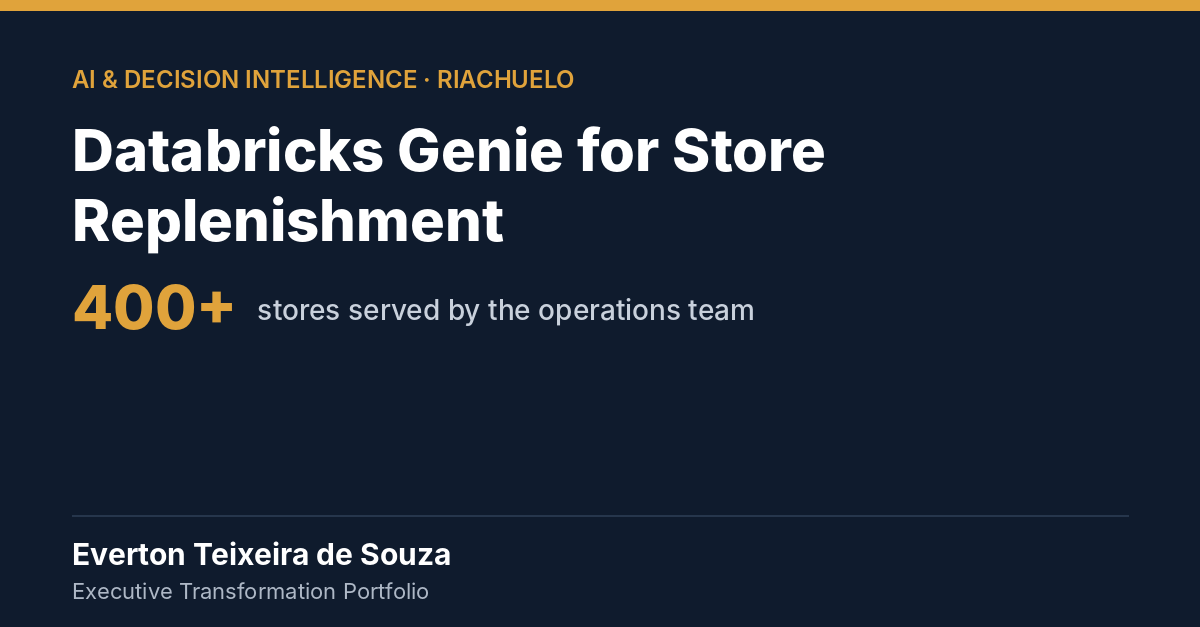
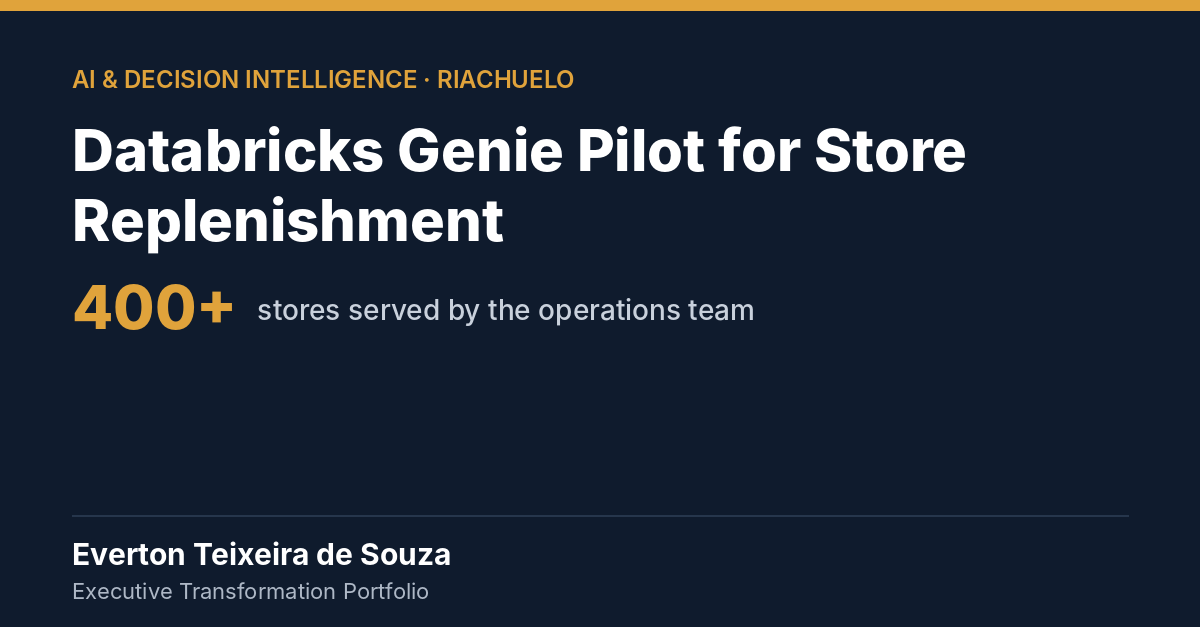
Genie case: mark as pilot
Claude-Session: https://claude.ai/code/session_01GqHwpDkRMmJzvmztvfNFAY

Changed region(s): [[0.4625, 0.1818, 0.8017, 0.2727]]

diff --git a/data.js b/data.js
@@ -311,27 +311,27 @@ window.PORTFOLIO = {
         tg: ["Agentes de IA","LLM","Calidad de Datos","o9"] } },
 
     { id: "databricks-genie-for-store-replenishment", a: "ai", co: "rch", org: "Riachuelo", y: "",
-      en: { t: "Databricks Genie for Store Replenishment", m: "400+", ml: "stores served by the operations team",
-        s: "Led the use of Databricks Genie on replenishment data so the operations team can answer questions from 400+ stores in natural language.",
+      en: { t: "Databricks Genie Pilot for Store Replenishment", m: "400+", ml: "stores served by the operations team",
+        s: "Led a pilot of Databricks Genie on replenishment data so the operations team can answer questions from 400+ stores in natural language.",
         cx: "The operations team supports more than 400 stores, which raise recurring questions about replenishment.",
         ch: "Answering each store meant searching reports and data by hand, which limited how much the operations team could interact with the stores.",
-        ap: "As Senior Manager of Enterprise Data & Analytics, led the design and the engineering team that set up Databricks Genie on governed replenishment data, with business context and curated instructions, so the operations team can ask questions in natural language.",
-        r: ["Operations team answers replenishment questions from 400+ stores in natural language","Answers grounded in governed replenishment data","Broader interaction between the operations team and the stores"],
-        tg: ["Databricks Genie","LLM","Conversational Analytics","Replenishment"] },
-      pt: { t: "Databricks Genie no Abastecimento de Lojas", m: "400+", ml: "lojas atendidas pelo time de operações",
-        s: "Liderança do uso do Databricks Genie sobre os dados de abastecimento para que o time de operações responda, em linguagem natural, às dúvidas de mais de 400 lojas.",
+        ap: "As Senior Manager of Enterprise Data & Analytics, led the design and the engineering team for a pilot that set up Databricks Genie on governed replenishment data, with business context and curated instructions, so the operations team can ask questions in natural language.",
+        r: ["Pilot: operations team answers replenishment questions from 400+ stores in natural language","Answers grounded in governed replenishment data","Broader interaction between the operations team and the stores"],
+        tg: ["Databricks Genie","LLM","Conversational Analytics","Replenishment","Pilot"] },
+      pt: { t: "Piloto de Databricks Genie no Abastecimento de Lojas", m: "400+", ml: "lojas atendidas pelo time de operações",
+        s: "Liderança de um piloto do Databricks Genie sobre os dados de abastecimento para que o time de operações responda, em linguagem natural, às dúvidas de mais de 400 lojas.",
         cx: "O time de operações atende mais de 400 lojas, que trazem dúvidas recorrentes sobre abastecimento.",
         ch: "Responder cada loja exigia buscar relatórios e dados manualmente, o que limitava a interação do time de operações com as lojas.",
-        ap: "Como Senior Manager de Enterprise Data & Analytics, liderou o desenho e o time de engenharia que implantou o Databricks Genie sobre dados governados de abastecimento, com contexto de negócio e instruções curadas, para que o time de operações faça perguntas em linguagem natural.",
-        r: ["Time de operações responde dúvidas de abastecimento de mais de 400 lojas em linguagem natural","Respostas baseadas em dados governados de abastecimento","Mais interação entre o time de operações e as lojas"],
-        tg: ["Databricks Genie","LLM","Analytics Conversacional","Abastecimento"] },
-      es: { t: "Databricks Genie en el Abastecimiento de Tiendas", m: "400+", ml: "tiendas atendidas por el equipo de operaciones",
-        s: "Lideró el uso de Databricks Genie sobre los datos de abastecimiento para que el equipo de operaciones responda, en lenguaje natural, las dudas de más de 400 tiendas.",
+        ap: "Como Senior Manager de Enterprise Data & Analytics, liderou o desenho e o time de engenharia de um piloto que implantou o Databricks Genie sobre dados governados de abastecimento, com contexto de negócio e instruções curadas, para que o time de operações faça perguntas em linguagem natural.",
+        r: ["Piloto: time de operações responde dúvidas de abastecimento de mais de 400 lojas em linguagem natural","Respostas baseadas em dados governados de abastecimento","Mais interação entre o time de operações e as lojas"],
+        tg: ["Databricks Genie","LLM","Analytics Conversacional","Abastecimento","Piloto"] },
+      es: { t: "Piloto de Databricks Genie en el Abastecimiento de Tiendas", m: "400+", ml: "tiendas atendidas por el equipo de operaciones",
+        s: "Lideró un piloto de Databricks Genie sobre los datos de abastecimiento para que el equipo de operaciones responda, en lenguaje natural, las dudas de más de 400 tiendas.",
         cx: "El equipo de operaciones atiende más de 400 tiendas, que plantean dudas recurrentes sobre abastecimiento.",
         ch: "Responder a cada tienda exigía buscar informes y datos manualmente, lo que limitaba la interacción del equipo de operaciones con las tiendas.",
-        ap: "Como Senior Manager de Enterprise Data & Analytics, lideró el diseño y el equipo de ingeniería que implementó Databricks Genie sobre datos gobernados de abastecimiento, con contexto de negocio e instrucciones curadas, para que el equipo de operaciones haga preguntas en lenguaje natural.",
-        r: ["El equipo de operaciones responde dudas de abastecimiento de más de 400 tiendas en lenguaje natural","Respuestas basadas en datos gobernados de abastecimiento","Más interacción entre el equipo de operaciones y las tiendas"],
-        tg: ["Databricks Genie","LLM","Analytics Conversacional","Abastecimiento"] } },
+        ap: "Como Senior Manager de Enterprise Data & Analytics, lideró el diseño y el equipo de ingeniería de un piloto que implementó Databricks Genie sobre datos gobernados de abastecimiento, con contexto de negocio e instrucciones curadas, para que el equipo de operaciones haga preguntas en lenguaje natural.",
+        r: ["Piloto: el equipo de operaciones responde dudas de abastecimiento de más de 400 tiendas en lenguaje natural","Respuestas basadas en datos gobernados de abastecimiento","Más interacción entre el equipo de operaciones y las tiendas"],
+        tg: ["Databricks Genie","LLM","Analytics Conversacional","Abastecimiento","Piloto"] } },
 
     { id: "fileup-file-load-and-data-quality-in-databricks", a: "dp", co: "rch", org: "Riachuelo", y: "",
       en: { t: "FileUp — File Load & Data Quality in Databricks", m: "", ml: "",

diff --git a/cases/es/databricks-genie-for-store-replenishment.html b/cases/es/databricks-genie-for-store-replenishment.html
@@ -3,22 +3,22 @@
 <head>
 <meta charset="utf-8">
 <meta name="viewport" content="width=device-width, initial-scale=1">
-<title>Databricks Genie en el Abastecimiento de Tiendas — Everton Teixeira de Souza</title>
-<meta name="description" content="Lideró el uso de Databricks Genie sobre los datos de abastecimiento para que el equipo de operaciones responda, en lenguaje natural, las dudas de más de 400 tiendas.">
+<title>Piloto de Databricks Genie en el Abastecimiento de Tiendas — Everton Teixeira de Souza</title>
+<meta name="description" content="Lideró un piloto de Databricks Genie sobre los datos de abastecimiento para que el equipo de operaciones responda, en lenguaje natural, las dudas de más de 400 tiendas.">
 <link rel="canonical" href="https://esouzasp.github.io/executive-portifolio/cases/es/databricks-genie-for-store-replenishment.html">
 <meta property="og:type" content="article">
 <meta property="og:site_name" content="Everton Teixeira de Souza — Portafolio Ejecutivo de Transformación">
-<meta property="og:title" content="Databricks Genie en el Abastecimiento de Tiendas">
-<meta property="og:description" content="Lideró el uso de Databricks Genie sobre los datos de abastecimiento para que el equipo de operaciones responda, en lenguaje natural, las dudas de más de 400 tiendas.">
+<meta property="og:title" content="Piloto de Databricks Genie en el Abastecimiento de Tiendas">
+<meta property="og:description" content="Lideró un piloto de Databricks Genie sobre los datos de abastecimiento para que el equipo de operaciones responda, en lenguaje natural, las dudas de más de 400 tiendas.">
 <meta property="og:url" content="https://esouzasp.github.io/executive-portifolio/cases/es/databricks-genie-for-store-replenishment.html">
 <meta property="og:image" content="https://esouzasp.github.io/executive-portifolio/images/cases/es/databricks-genie-for-store-replenishment.png">
 <meta property="og:image:width" content="1200">
 <meta property="og:image:height" content="627">
-<meta property="og:image:alt" content="Databricks Genie en el Abastecimiento de Tiendas">
+<meta property="og:image:alt" content="Piloto de Databricks Genie en el Abastecimiento de Tiendas">
 <meta property="og:locale" content="es_ES">
 <meta name="twitter:card" content="summary_large_image">
-<meta name="twitter:title" content="Databricks Genie en el Abastecimiento de Tiendas">
-<meta name="twitter:description" content="Lideró el uso de Databricks Genie sobre los datos de abastecimiento para que el equipo de operaciones responda, en lenguaje natural, las dudas de más de 400 tiendas.">
+<meta name="twitter:title" content="Piloto de Databricks Genie en el Abastecimiento de Tiendas">
+<meta name="twitter:description" content="Lideró un piloto de Databricks Genie sobre los datos de abastecimiento para que el equipo de operaciones responda, en lenguaje natural, las dudas de más de 400 tiendas.">
 <meta name="twitter:image" content="https://esouzasp.github.io/executive-portifolio/images/cases/es/databricks-genie-for-store-replenishment.png">
 <meta name="author" content="Everton Teixeira de Souza">
 <script>try{sessionStorage.setItem("pf_src","share:"+(document.referrer?new URL(document.referrer).hostname:"direct"))}catch(e){}location.replace("../../?lang=es#databricks-genie-for-store-replenishment");</script>
@@ -36,14 +36,14 @@ a.btn{display:inline-block;margin-top:24px;padding:12px 20px;border-radius:8px;b
 <body>
 <main>
 <p class="eb">IA e Inteligencia de Decisión · Riachuelo</p>
-<h1>Databricks Genie en el Abastecimiento de Tiendas</h1>
-<p>Lideró el uso de Databricks Genie sobre los datos de abastecimiento para que el equipo de operaciones responda, en lenguaje natural, las dudas de más de 400 tiendas.</p>
+<h1>Piloto de Databricks Genie en el Abastecimiento de Tiendas</h1>
+<p>Lideró un piloto de Databricks Genie sobre los datos de abastecimiento para que el equipo de operaciones responda, en lenguaje natural, las dudas de más de 400 tiendas.</p>
 <p class="m">400+<span>tiendas atendidas por el equipo de operaciones</span></p>
 <dl>
 <dt>Situación</dt><dd>El equipo de operaciones atiende más de 400 tiendas, que plantean dudas recurrentes sobre abastecimiento.</dd>
 <dt>Tarea</dt><dd>Responder a cada tienda exigía buscar informes y datos manualmente, lo que limitaba la interacción del equipo de operaciones con las tiendas.</dd>
-<dt>Acción</dt><dd>Como Senior Manager de Enterprise Data &amp; Analytics, lideró el diseño y el equipo de ingeniería que implementó Databricks Genie sobre datos gobernados de abastecimiento, con contexto de negocio e instrucciones curadas, para que el equipo de operaciones haga preguntas en lenguaje natural.</dd>
-<dt>Resultado</dt><dd><ul><li>El equipo de operaciones responde dudas de abastecimiento de más de 400 tiendas en lenguaje natural</li><li>Respuestas basadas en datos gobernados de abastecimiento</li><li>Más interacción entre el equipo de operaciones y las tiendas</li></ul></dd>
+<dt>Acción</dt><dd>Como Senior Manager de Enterprise Data &amp; Analytics, lideró el diseño y el equipo de ingeniería de un piloto que implementó Databricks Genie sobre datos gobernados de abastecimiento, con contexto de negocio e instrucciones curadas, para que el equipo de operaciones haga preguntas en lenguaje natural.</dd>
+<dt>Resultado</dt><dd><ul><li>Piloto: el equipo de operaciones responde dudas de abastecimiento de más de 400 tiendas en lenguaje natural</li><li>Respuestas basadas en datos gobernados de abastecimiento</li><li>Más interacción entre el equipo de operaciones y las tiendas</li></ul></dd>
 </dl>
 <a class="btn" href="../../?lang=es#databricks-genie-for-store-replenishment">Abrir en el portafolio</a>
 </main>

diff --git a/cases/pt/databricks-genie-for-store-replenishment.html b/cases/pt/databricks-genie-for-store-replenishment.html
@@ -3,22 +3,22 @@
 <head>
 <meta charset="utf-8">
 <meta name="viewport" content="width=device-width, initial-scale=1">
-<title>Databricks Genie no Abastecimento de Lojas — Everton Teixeira de Souza</title>
-<meta name="description" content="Liderança do uso do Databricks Genie sobre os dados de abastecimento para que o time de operações responda, em linguagem natural, às dúvidas de mais de 400 lojas.">
+<title>Piloto de Databricks Genie no Abastecimento de Lojas — Everton Teixeira de Souza</title>
+<meta name="description" content="Liderança de um piloto do Databricks Genie sobre os dados de abastecimento para que o time de operações responda, em linguagem natural, às dúvidas de mais de 400 lojas.">
 <link rel="canonical" href="https://esouzasp.github.io/executive-portifolio/cases/pt/databricks-genie-for-store-replenishment.html">
 <meta property="og:type" content="article">
 <meta property="og:site_name" content="Everton Teixeira de Souza — Portfólio Executivo de Transformação">
-<meta property="og:title" content="Databricks Genie no Abastecimento de Lojas">
-<meta property="og:description" content="Liderança do uso do Databricks Genie sobre os dados de abastecimento para que o time de operações responda, em linguagem natural, às dúvidas de mais de 400 lojas.">
+<meta property="og:title" content="Piloto de Databricks Genie no Abastecimento de Lojas">
+<meta property="og:description" content="Liderança de um piloto do Databricks Genie sobre os dados de abastecimento para que o time de operações responda, em linguagem natural, às dúvidas de mais de 400 lojas.">
 <meta property="og:url" content="https://esouzasp.github.io/executive-portifolio/cases/pt/databricks-genie-for-store-replenishment.html">
 <meta property="og:image" content="https://esouzasp.github.io/executive-portifolio/images/cases/pt/databricks-genie-for-store-replenishment.png">
 <meta property="og:image:width" content="1200">
 <meta property="og:image:height" content="627">
-<meta property="og:image:alt" content="Databricks Genie no Abastecimento de Lojas">
+<meta property="og:image:alt" content="Piloto de Databricks Genie no Abastecimento de Lojas">
 <meta property="og:locale" content="pt_BR">
 <meta name="twitter:card" content="summary_large_image">
-<meta name="twitter:title" content="Databricks Genie no Abastecimento de Lojas">
-<meta name="twitter:description" content="Liderança do uso do Databricks Genie sobre os dados de abastecimento para que o time de operações responda, em linguagem natural, às dúvidas de mais de 400 lojas.">
+<meta name="twitter:title" content="Piloto de Databricks Genie no Abastecimento de Lojas">
+<meta name="twitter:description" content="Liderança de um piloto do Databricks Genie sobre os dados de abastecimento para que o time de operações responda, em linguagem natural, às dúvidas de mais de 400 lojas.">
 <meta name="twitter:image" content="https://esouzasp.github.io/executive-portifolio/images/cases/pt/databricks-genie-for-store-replenishment.png">
 <meta name="author" content="Everton Teixeira de Souza">
 <script>try{sessionStorage.setItem("pf_src","share:"+(document.referrer?new URL(document.referrer).hostname:"direct"))}catch(e){}location.replace("../../?lang=pt#databricks-genie-for-store-replenishment");</script>
@@ -36,14 +36,14 @@ a.btn{display:inline-block;margin-top:24px;padding:12px 20px;border-radius:8px;b
 <body>
 <main>
 <p class="eb">IA e Inteligência de Decisão · Riachuelo</p>
-<h1>Databricks Genie no Abastecimento de Lojas</h1>
-<p>Liderança do uso do Databricks Genie sobre os dados de abastecimento para que o time de operações responda, em linguagem natural, às dúvidas de mais de 400 lojas.</p>
+<h1>Piloto de Databricks Genie no Abastecimento de Lojas</h1>
+<p>Liderança de um piloto do Databricks Genie sobre os dados de abastecimento para que o time de operações responda, em linguagem natural, às dúvidas de mais de 400 lojas.</p>
 <p class="m">400+<span>lojas atendidas pelo time de operações</span></p>
 <dl>
 <dt>Situação</dt><dd>O time de operações atende mais de 400 lojas, que trazem dúvidas recorrentes sobre abastecimento.</dd>
 <dt>Tarefa</dt><dd>Responder cada loja exigia buscar relatórios e dados manualmente, o que limitava a interação do time de operações com as lojas.</dd>
-<dt>Ação</dt><dd>Como Senior Manager de Enterprise Data &amp; Analytics, liderou o desenho e o time de engenharia que implantou o Databricks Genie sobre dados governados de abastecimento, com contexto de negócio e instruções curadas, para que o time de operações faça perguntas em linguagem natural.</dd>
-<dt>Resultado</dt><dd><ul><li>Time de operações responde dúvidas de abastecimento de mais de 400 lojas em linguagem natural</li><li>Respostas baseadas em dados governados de abastecimento</li><li>Mais interação entre o time de operações e as lojas</li></ul></dd>
+<dt>Ação</dt><dd>Como Senior Manager de Enterprise Data &amp; Analytics, liderou o desenho e o time de engenharia de um piloto que implantou o Databricks Genie sobre dados governados de abastecimento, com contexto de negócio e instruções curadas, para que o time de operações faça perguntas em linguagem natural.</dd>
+<dt>Resultado</dt><dd><ul><li>Piloto: time de operações responde dúvidas de abastecimento de mais de 400 lojas em linguagem natural</li><li>Respostas baseadas em dados governados de abastecimento</li><li>Mais interação entre o time de operações e as lojas</li></ul></dd>
 </dl>
 <a class="btn" href="../../?lang=pt#databricks-genie-for-store-replenishment">Abrir no portfólio</a>
 </main>

diff --git a/cases/databricks-genie-for-store-replenishment.html b/cases/databricks-genie-for-store-replenishment.html
@@ -3,22 +3,22 @@
 <head>
 <meta charset="utf-8">
 <meta name="viewport" content="width=device-width, initial-scale=1">
-<title>Databricks Genie for Store Replenishment — Everton Teixeira de Souza</title>
-<meta name="description" content="Led the use of Databricks Genie on replenishment data so the operations team can answer questions from 400+ stores in natural language.">
+<title>Databricks Genie Pilot for Store Replenishment — Everton Teixeira de Souza</title>
+<meta name="description" content="Led a pilot of Databricks Genie on replenishment data so the operations team can answer questions from 400+ stores in natural language.">
 <link rel="canonical" href="https://esouzasp.github.io/executive-portifolio/cases/databricks-genie-for-store-replenishment.html">
 <meta property="og:type" content="article">
 <meta property="og:site_name" content="Everton Teixeira de Souza — Executive Transformation Portfolio">
-<meta property="og:title" content="Databricks Genie for Store Replenishment">
-<meta property="og:description" content="Led the use of Databricks Genie on replenishment data so the operations team can answer questions from 400+ stores in natural language.">
+<meta property="og:title" content="Databricks Genie Pilot for Store Replenishment">
+<meta property="og:description" content="Led a pilot of Databricks Genie on replenishment data so the operations team can answer questions from 400+ stores in natural language.">
 <meta property="og:url" content="https://esouzasp.github.io/executive-portifolio/cases/databricks-genie-for-store-replenishment.html">
 <meta property="og:image" content="https://esouzasp.github.io/executive-portifolio/images/cases/en/databricks-genie-for-store-replenishment.png">
 <meta property="og:image:width" content="1200">
 <meta property="og:image:height" content="627">
-<meta property="og:image:alt" content="Databricks Genie for Store Replenishment">
+<meta property="og:image:alt" content="Databricks Genie Pilot for Store Replenishment">
 <meta property="og:locale" content="en_US">
 <meta name="twitter:card" content="summary_large_image">
-<meta name="twitter:title" content="Databricks Genie for Store Replenishment">
-<meta name="twitter:description" content="Led the use of Databricks Genie on replenishment data so the operations team can answer questions from 400+ stores in natural language.">
+<meta name="twitter:title" content="Databricks Genie Pilot for Store Replenishment">
+<meta name="twitter:description" content="Led a pilot of Databricks Genie on replenishment data so the operations team can answer questions from 400+ stores in natural language.">
 <meta name="twitter:image" content="https://esouzasp.github.io/executive-portifolio/images/cases/en/databricks-genie-for-store-replenishment.png">
 <meta name="author" content="Everton Teixeira de Souza">
 <script>try{sessionStorage.setItem("pf_src","share:"+(document.referrer?new URL(document.referrer).hostname:"direct"))}catch(e){}location.replace("../#databricks-genie-for-store-replenishment");</script>
@@ -36,14 +36,14 @@ a.btn{display:inline-block;margin-top:24px;padding:12px 20px;border-radius:8px;b
 <body>
 <main>
 <p class="eb">AI &amp; Decision Intelligence · Riachuelo</p>
-<h1>Databricks Genie for Store Replenishment</h1>
-<p>Led the use of Databricks Genie on replenishment data so the operations team can answer questions from 400+ stores in natural language.</p>
+<h1>Databricks Genie Pilot for Store Replenishment</h1>
+<p>Led a pilot of Databricks Genie on replenishment data so the operations team can answer questions from 400+ stores in natural language.</p>
 <p class="m">400+<span>stores served by the operations team</span></p>
 <dl>
 <dt>Situation</dt><dd>The operations team supports more than 400 stores, which raise recurring questions about replenishment.</dd>
 <dt>Task</dt><dd>Answering each store meant searching reports and data by hand, which limited how much the operations team could interact with the stores.</dd>
-<dt>Action</dt><dd>As Senior Manager of Enterprise Data &amp; Analytics, led the design and the engineering team that set up Databricks Genie on governed replenishment data, with business context and curated instructions, so the operations team can ask questions in natural language.</dd>
-<dt>Result</dt><dd><ul><li>Operations team answers replenishment questions from 400+ stores in natural language</li><li>Answers grounded in governed replenishment data</li><li>Broader interaction between the operations team and the stores</li></ul></dd>
+<dt>Action</dt><dd>As Senior Manager of Enterprise Data &amp; Analytics, led the design and the engineering team for a pilot that set up Databricks Genie on governed replenishment data, with business context and curated instructions, so the operations team can ask questions in natural language.</dd>
+<dt>Result</dt><dd><ul><li>Pilot: operations team answers replenishment questions from 400+ stores in natural language</li><li>Answers grounded in governed replenishment data</li><li>Broader interaction between the operations team and the stores</li></ul></dd>
 </dl>
 <a class="btn" href="../#databricks-genie-for-store-replenishment">Open in the portfolio</a>
 </main>

diff --git a/index.html b/index.html
@@ -17,12 +17,12 @@
 <link rel="preconnect" href="https://fonts.googleapis.com">
 <link rel="preconnect" href="https://fonts.gstatic.com" crossorigin>
 <link href="https://fonts.googleapis.com/css2?family=Inter:wght@400;500;600&family=Manrope:wght@600;700;800&display=swap" rel="stylesheet">
-<link rel="stylesheet" href="styles.css?v=20261125-1200">
+<link rel="stylesheet" href="styles.css?v=20261125-1300">
 </head>
 <body>
 <div id="app"></div>
 <noscript>This portfolio needs JavaScript enabled.</noscript>
-<script src="data.js?v=20261125-1200"></script>
-<script src="app.js?v=20261125-1200"></script>
+<script src="data.js?v=20261125-1300"></script>
+<script src="app.js?v=20261125-1300"></script>
 </body>
 </html>
